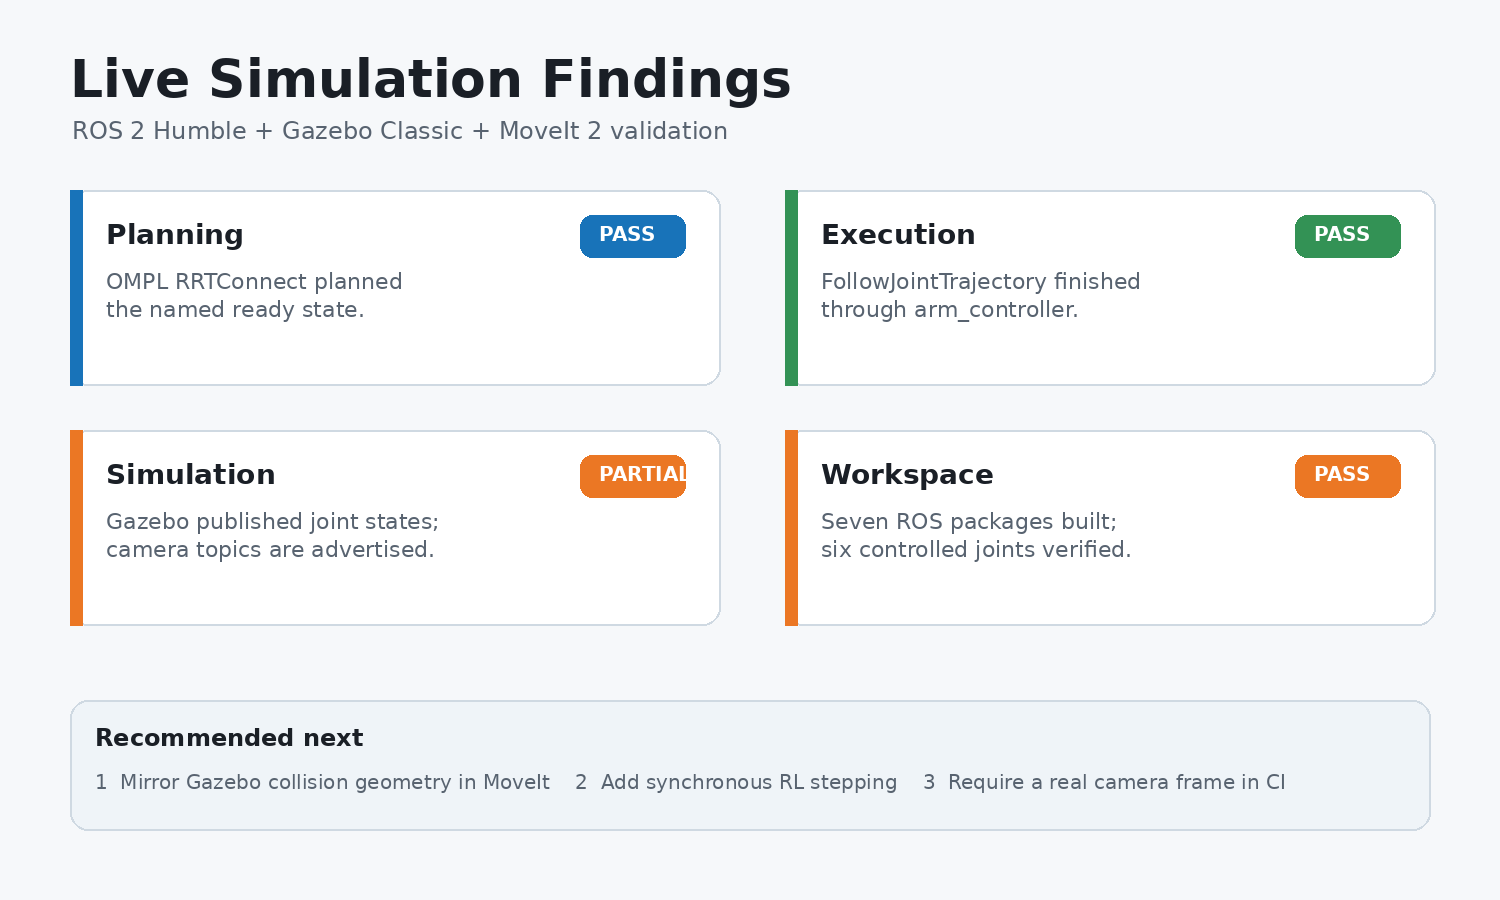
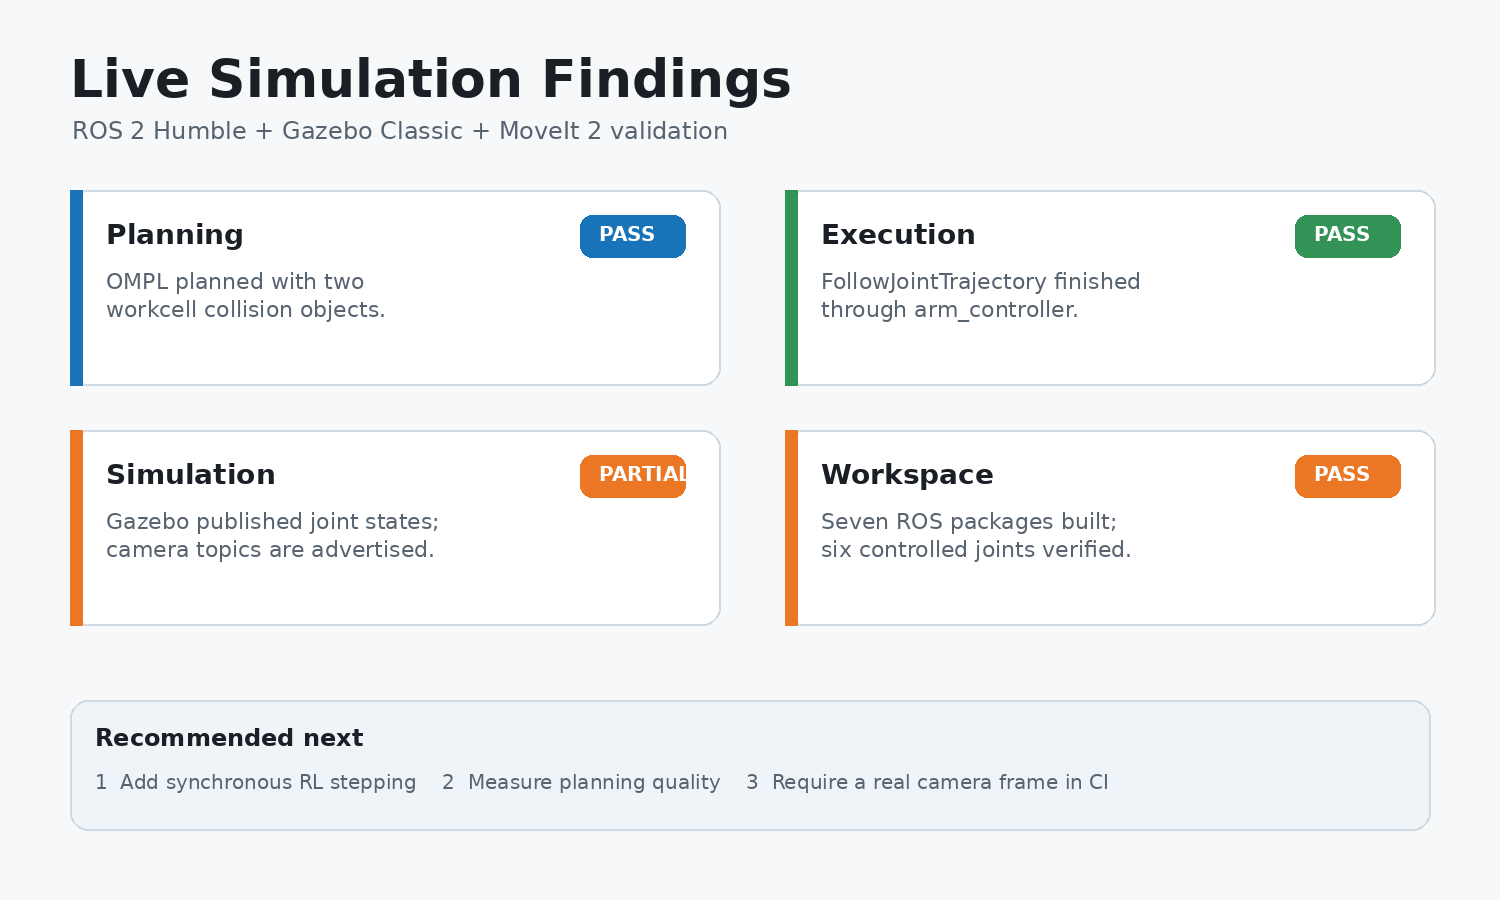
feat: synchronize MoveIt planning scene

Changed region(s): [[0.092, 0.84, 0.828, 0.9022], [0.0613, 0.28, 0.276, 0.3733]]

diff --git a/colcon_ws/src/aim_arm_moveit_config/src/planning_scene_loader.cpp b/colcon_ws/src/aim_arm_moveit_config/src/planning_scene_loader.cpp
@@ -1,0 +1,90 @@
+#include <chrono>
+#include <memory>
+#include <string>
+#include <thread>
+#include <vector>
+
+#include <geometry_msgs/msg/pose.hpp>
+#include <moveit/planning_scene_interface/planning_scene_interface.h>
+#include <moveit_msgs/msg/collision_object.hpp>
+#include <rclcpp/rclcpp.hpp>
+#include <shape_msgs/msg/solid_primitive.hpp>
+
+namespace
+{
+
+void add_box(
+  moveit_msgs::msg::CollisionObject & object,
+  double size_x, double size_y, double size_z,
+  double x, double y, double z)
+{
+  shape_msgs::msg::SolidPrimitive primitive;
+  primitive.type = shape_msgs::msg::SolidPrimitive::BOX;
+  primitive.dimensions = {size_x, size_y, size_z};
+
+  geometry_msgs::msg::Pose pose;
+  pose.orientation.w = 1.0;
+  pose.position.x = x;
+  pose.position.y = y;
+  pose.position.z = z;
+
+  object.primitives.push_back(primitive);
+  object.primitive_poses.push_back(pose);
+}
+
+moveit_msgs::msg::CollisionObject make_table()
+{
+  moveit_msgs::msg::CollisionObject table;
+  table.header.frame_id = "world";
+  table.id = "workspace_table";
+  table.operation = moveit_msgs::msg::CollisionObject::ADD;
+
+  // Preserve the Gazebo tabletop while leaving a mounting clearance around
+  // base_link. The robot is spawned 5 cm above Gazebo's world origin, while
+  // MoveIt's fixed world_to_base transform starts at zero.
+  add_box(table, 0.87, 0.80, 0.05, 0.615, 0.0, 0.025);
+  add_box(table, 0.33, 0.22, 0.05, 0.015, 0.29, 0.025);
+  add_box(table, 0.33, 0.22, 0.05, 0.015, -0.29, 0.025);
+  return table;
+}
+
+moveit_msgs::msg::CollisionObject make_target()
+{
+  moveit_msgs::msg::CollisionObject target;
+  target.header.frame_id = "world";
+  target.id = "target_block";
+  target.operation = moveit_msgs::msg::CollisionObject::ADD;
+  add_box(target, 0.06, 0.06, 0.06, 0.55, 0.10, 0.085);
+  return target;
+}
+
+}  // namespace
+
+int main(int argc, char ** argv)
+{
+  rclcpp::init(argc, argv);
+  auto node = std::make_shared<rclcpp::Node>("aim_arm_planning_scene_loader");
+  moveit::planning_interface::PlanningSceneInterface planning_scene;
+  const std::vector<moveit_msgs::msg::CollisionObject> objects{
+    make_table(), make_target()};
+
+  constexpr auto retry_delay = std::chrono::seconds(1);
+  constexpr int max_attempts = 30;
+  for (int attempt = 1; attempt <= max_attempts; ++attempt) {
+    if (planning_scene.applyCollisionObjects(objects)) {
+      RCLCPP_INFO(
+        node->get_logger(),
+        "Planning scene synchronized: workspace_table, target_block");
+      rclcpp::shutdown();
+      return 0;
+    }
+    RCLCPP_WARN(
+      node->get_logger(), "Planning scene service unavailable (attempt %d/%d)",
+      attempt, max_attempts);
+    std::this_thread::sleep_for(retry_delay);
+  }
+
+  RCLCPP_ERROR(node->get_logger(), "Failed to synchronize the Gazebo workcell");
+  rclcpp::shutdown();
+  return 1;
+}

diff --git a/colcon_ws/src/aim_arm_moveit_config/src/plan_execution_smoke.cpp b/colcon_ws/src/aim_arm_moveit_config/src/plan_execution_smoke.cpp
@@ -1,9 +1,11 @@
+#include <algorithm>
 #include <chrono>
 #include <iostream>
 #include <memory>
 #include <thread>
 
 #include <moveit/move_group_interface/move_group_interface.h>
+#include <moveit/planning_scene_interface/planning_scene_interface.h>
 #include <rclcpp/rclcpp.hpp>
 
 int main(int argc, char ** argv)
@@ -21,6 +23,16 @@ int main(int argc, char ** argv)
 
   int result = 1;
   try {
+    moveit::planning_interface::PlanningSceneInterface planning_scene;
+    const auto known_objects = planning_scene.getKnownObjectNames();
+    const auto has_object = [&known_objects](const std::string & id) {
+      return std::find(known_objects.begin(), known_objects.end(), id) != known_objects.end();
+    };
+    if (!has_object("workspace_table") || !has_object("target_block")) {
+      throw std::runtime_error(
+              "MoveIt planning scene is missing workspace_table or target_block");
+    }
+
     moveit::planning_interface::MoveGroupInterface move_group(node, "arm");
     move_group.setPlanningTime(10.0);
     move_group.setNumPlanningAttempts(5);
@@ -41,7 +53,7 @@ int main(int argc, char ** argv)
       throw std::runtime_error("MoveIt failed to execute the planned trajectory");
     }
 
-    std::cout << "MoveIt plan execution passed: target=ready" << std::endl;
+    std::cout << "MoveIt plan execution passed: target=ready, collision_objects=2" << std::endl;
     result = 0;
   } catch (const std::exception & error) {
     RCLCPP_ERROR(node->get_logger(), "%s", error.what());

diff --git a/colcon_ws/src/aim_arm_moveit_config/launch/planning_simulation.launch.py b/colcon_ws/src/aim_arm_moveit_config/launch/planning_simulation.launch.py
@@ -3,6 +3,7 @@ from launch.actions import DeclareLaunchArgument, IncludeLaunchDescription
 from launch.conditions import IfCondition
 from launch.launch_description_sources import PythonLaunchDescriptionSource
 from launch.substitutions import LaunchConfiguration, PathJoinSubstitution
+from launch_ros.actions import Node
 from launch_ros.substitutions import FindPackageShare
 
 
@@ -34,6 +35,12 @@ def generate_launch_description():
             IncludeLaunchDescription(
                 PythonLaunchDescriptionSource(move_group),
                 launch_arguments={"use_sim_time": "true"}.items(),
+            ),
+            Node(
+                package="aim_arm_moveit_config",
+                executable="planning_scene_loader",
+                parameters=[{"use_sim_time": True}],
+                output="screen",
             ),
             IncludeLaunchDescription(
                 PythonLaunchDescriptionSource(moveit_rviz),

diff --git a/scripts/generate_readme_media.py b/scripts/generate_readme_media.py
@@ -236,7 +236,7 @@ def save_findings_summary():
     findings = [
         (
             "Planning",
-            "OMPL RRTConnect planned\nthe named ready state.",
+            "OMPL planned with two\nworkcell collision objects.",
             PALETTE["blue"],
             "PASS",
         ),
@@ -276,7 +276,7 @@ def save_findings_summary():
     d.text((95, 723), "Recommended next", font=font(24, True), fill=PALETTE["ink"])
     d.text(
         (95, 770),
-        "1  Mirror Gazebo collision geometry in MoveIt    2  Add synchronous RL stepping    3  Require a real camera frame in CI",
+        "1  Add synchronous RL stepping    2  Measure planning quality    3  Require a real camera frame in CI",
         font=font(20),
         fill=PALETTE["muted"],
     )

diff --git a/docs/findings_and_recommendations.md b/docs/findings_and_recommendations.md
@@ -6,19 +6,19 @@
 - Gazebo starts the six-joint arm with active `joint_state_broadcaster` and `arm_controller` instances.
 - MoveIt loads the SRDF, KDL configuration, and OMPL RRTConnect planning pipeline.
 - MoveIt plans the named `ready` state and executes it successfully through the simulated `FollowJointTrajectory` controller.
+- The planning simulation mirrors the Gazebo tabletop and target block into MoveIt and verifies both collision objects before execution.
 - The Gazebo camera plugin starts and advertises the remapped `/camera/image_raw` and `/camera/camera_info` topics.
 - In the tested WSLg session, the camera publisher advertised successfully but did not deliver image frames; the accelerated Gazebo viewport also appeared black to desktop capture tools.
 - PPO rollout training and checkpoint-based evaluation run on the mock arm environment.
 
 ## Prioritized Recommendations
 
-1. **Synchronize collision geometry.** Publish the Gazebo table and target block into the MoveIt planning scene so plans account for the complete workcell.
-2. **Add synchronous simulation stepping.** Replace the mock RL dynamics with a reset/step backend that commands Gazebo and waits for fresh joint and target state.
-3. **Measure planning quality.** Record planning time, path length, execution duration, and controller error for repeatable comparisons.
-4. **Harden camera validation.** Run the Gazebo camera smoke in a native GPU-enabled Linux/container environment, require at least one decoded frame, and retain the captured artifact in CI.
-5. **Calibrate perception.** Replace the current planar pixel mapping with camera intrinsics, extrinsics, and depth or multi-view target estimation.
-6. **Define actuator hardware.** Select motor drivers, encoders, limits, and emergency-stop behavior before mapping parsed Arduino commands to pins.
-7. **Add CI tiers.** Keep static/base checks fast, then run MoveIt/Gazebo and PyTorch integration jobs in dependency-complete containers.
+1. **Add synchronous simulation stepping.** Replace the mock RL dynamics with a reset/step backend that commands Gazebo and waits for fresh joint and target state.
+2. **Measure planning quality.** Record planning time, path length, execution duration, and controller error for repeatable comparisons.
+3. **Harden camera validation.** Run the Gazebo camera smoke in a native GPU-enabled Linux/container environment, require at least one decoded frame, and retain the captured artifact in CI.
+4. **Calibrate perception.** Replace the current planar pixel mapping with camera intrinsics, extrinsics, and depth or multi-view target estimation.
+5. **Define actuator hardware.** Select motor drivers, encoders, limits, and emergency-stop behavior before mapping parsed Arduino commands to pins.
+6. **Add CI tiers.** Keep static/base checks fast, then run MoveIt/Gazebo and PyTorch integration jobs in dependency-complete containers.
 
 ## Evidence
 

diff --git a/docs/moveit.md b/docs/moveit.md
@@ -12,6 +12,7 @@
 - A `planning_simulation.launch.py` launch file that combines controlled Gazebo and MoveIt.
 - An RViz configuration with the MoveIt MotionPlanning display.
 - A C++ plan-execution smoke client that plans and executes the named `ready` state.
+- A planning-scene loader that mirrors the Gazebo tabletop and target block as collision objects.
 
 Install the optional ROS dependencies before running the planning pipeline:
 
@@ -29,7 +30,7 @@ source install/setup.bash
 ros2 launch aim_arm_moveit_config planning_simulation.launch.py
 ```
 
-The base validation loop checks the launch syntax and planning/controller configuration even when MoveIt is unavailable. When MoveIt and ROS control are installed, `scripts/run_all_checks.sh` starts `move_group`, launches controlled Gazebo, and verifies an executed plan through `arm_controller`.
+The base validation loop checks the launch syntax and planning/controller configuration even when MoveIt is unavailable. When MoveIt and ROS control are installed, `scripts/run_all_checks.sh` starts `move_group`, launches controlled Gazebo, verifies both workcell collision objects, and executes a plan through `arm_controller`.
 
 Run the execution check directly with:
 

diff --git a/README.md b/README.md
@@ -150,6 +150,7 @@ The full loop currently validates:
 - Controlled trajectory command acceptance and `/joint_states` publication.
 - MoveIt `move_group` startup when MoveIt 2 is installed.
 - MoveIt plan execution through the simulated arm controller.
+- Gazebo tabletop and target-block collision objects in the MoveIt planning scene.
 - Dry-run bringup.
 - Synthetic camera to trajectory topic flow.
 - PPO rollout training, checkpoint save, and policy evaluation when PyTorch is installed.
@@ -246,7 +247,6 @@ Current blockers for advanced live execution:
 
 ## Roadmap
 
-- Synchronize Gazebo workcell collision objects into the MoveIt planning scene.
 - Replace the mock RL backend with a ROS/Gazebo stepping backend.
 - Add TensorBoard reward and success-rate visualization.
 - Map Arduino parsed commands to selected actuator hardware.

diff --git a/docs/status.md b/docs/status.md
@@ -16,6 +16,7 @@
 - Dry-run serial bridge encodes clamped joint packets.
 - MoveIt configuration defines the planning group, OMPL pipeline, joint limits, and trajectory controller mapping.
 - MoveIt plans and executes the named `ready` state through the simulated trajectory controller.
+- MoveIt mirrors the Gazebo tabletop and target block into its planning scene.
 - Topic-flow smoke test confirms camera -> target pose -> joint trajectory.
 - CPU PyTorch and Gymnasium are installed for RL trainer initialization.
 
@@ -32,6 +33,5 @@
 
 ## Next Implementation Targets
 
-- Add collision objects from the Gazebo workcell to the MoveIt planning scene.
 - Add a ROS/Gazebo stepping backend for the RL environment.
 - Expand Arduino firmware from parsing-only to actuator pin output once hardware is selected.
